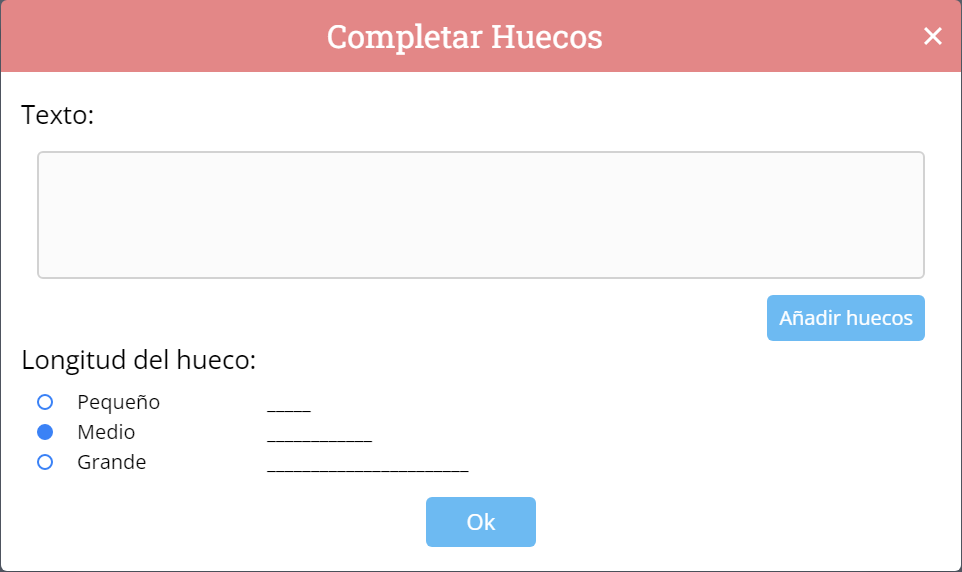
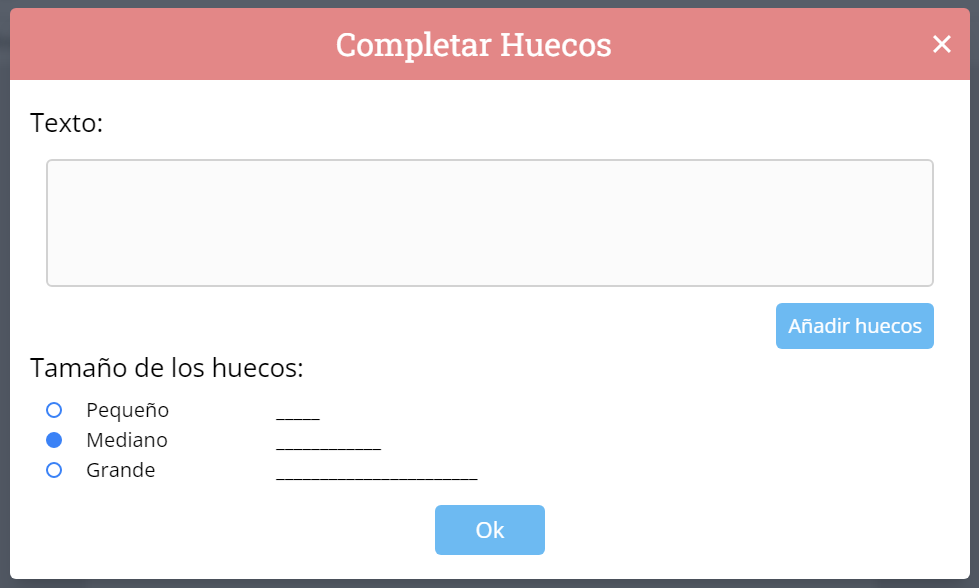
Memoria - Implementacion y Trabajo Individual

Changed region(s): [[0.0, 0.0, 1.0, 1.0], [0.2807, 0.8024, 0.4678, 0.8322], [0.2807, 0.7133, 0.3742, 0.7727]]

diff --git a/Memoria/Capitulos/AdaptaMaterialEscolar2.0.tex b/Memoria/Capitulos/AdaptaMaterialEscolar2.0.tex
@@ -382,9 +382,10 @@ Para implementar esta funcionalidad se ha empleado un campo de texto en el cual 
 \end{figure}
 
 \subsubsection{Completar huecos}
-Para implementar esta funcionalidad se ha empleado un area de texto en el cual se introduce el texto que se quiere modificar, remplazando palabras por huecos. Tanto el botón de añadir huecos como el botón de \textit{Ok} están desactivados y no se podrán pulsar hasta que se introduzca un texto. Al pulsar el botón de añadir huecos, se permite hacer click a las distintas palabras del texto para convertirlas en huecos, y viceversa, pero no se podrá editar el texto. Se podrá editar el texto volviendo a pulsar el botón de añadir huecos, que ahora se llamará editar texto. Si se edita el texto se perderán todos los huecos que se hayan añadido. Además, se podrá elegir el tamaño de los huecos. Al pulsar el botón de \textit{Ok}, se insertará en el documento de trabajo el ejercicio con un enunciado predeterminado y el texto con los huecos que se hayan definido. En la Figura \ref{fig:impcompletarhuecos} se muestra la funcionalidad de completar huecos.
+\label{sec:impcompletarhuecos}
+Para implementar esta funcionalidad se ha empleado un area de texto en el cual se introduce el texto que se quiere modificar, remplazando palabras por huecos. Tanto el botón de añadir huecos como el botón de \textit{Ok} están desactivados y no se podrán pulsar hasta que se introduzca un texto. Al pulsar el botón de añadir huecos, se permite hacer click a las distintas palabras del texto para convertirlas en huecos, y viceversa, pero no se podrá editar el texto. Se podrá editar el texto volviendo a pulsar el botón de añadir huecos, que ahora se llamará editar texto. Si se edita el texto se perderán todos los huecos que se hayan añadido. Además, se podrá elegir el tamaño de los huecos utilizando botones de radio. Al pulsar el botón de \textit{Ok}, se insertará en el documento de trabajo el ejercicio con un enunciado predeterminado y el texto con los huecos que se hayan definido. En la Figura \ref{fig:impcompletarhuecos} se muestra la funcionalidad de completar huecos.
 
-Internamente se han utilizado dos listas: una lista para almacenar las palabras del texto y otra lista de la misma longitud para marcar si hay un hueco en una posición concreta del texto. También se ha utilizado una variable para guardar el tipo del hueco: pequeño, medio o grande; y una variable para guardar el modo de edición (editar texto o añadir huecos). Cuando se modifica el texto, se crea una nueva lista donde cada elemento es una palabra del texto y una lista de booleanos con tantos elementos como palabras tenga el texto, marcando si una palabra en cierta posición es un hueco o no. Cuando se pulsa el botón de añadir huecos o editar texto se cambia el modo de edición. Al clickar una palabra en el modo de añadir huecos se alterna el estado del booleano, en la lista de huecos, en la posición de la palabra pulsada.
+Se han utilizado, internamente, dos listas: una para almacenar las palabras del texto y otra de igual longitud para indicar si hay un hueco en una posición específica del texto. Además, se han implementado dos variables para guardar información adicional: una para el tamaño del hueco (pequeño, mediano o grande) y otra para el modo de edición (edición de texto o añadir huecos). Cuando se realiza una modificación en el texto, se crea una nueva lista en la que cada elemento es una palabra del texto y una lista de booleanos con tantos elementos como palabras tenga el texto, para indicar si una palabra en una posición determinada es un hueco o no. Al hacer clic en el botón de añadir huecos o editar texto, se cambia el modo de edición. En el modo de añadir huecos, al hacer clic en una palabra, se cambia el estado del booleano correspondiente en la lista de huecos para la posición de la palabra seleccionada.
 
 \begin{figure}[ht!]
   \centering
@@ -411,6 +412,44 @@ Internamente se han utilizado dos listas: una lista para almacenar las palabras 
 
   \caption{Funcionalidad de completar huecos}
   \label{fig:impcompletarhuecos}
+\end{figure}
+
+\subsubsection{Sopa de letras}
+\label{sec:impsopaletras}
+Se ha utilizado una serie de elementos para implementar la funcionalidad de generación de sopas de letras. En primer lugar, se emplean dos campos para introducir el número de filas y columnas deseado. A continuación, se utilizan dos componentes, el \textit{ModalNewWordInput} y el \textit{ModalWordList}, que permiten añadir, modificar y eliminar palabras de la sopa de letras. Para seleccionar las orientaciones permitidas, se ha creado un menú de \textit{checkboxes}. Cada vez que se modifica alguno de estos campos, se llama a la función \textit{createWordSearch}, que utiliza la clase \textit{WordSearch} de la biblioteca \textit{word-search} para generar la sopa de letras. Esta función recibe los valores de los campos del modal y el devuelve un objeto que contiene la sopa de letras, errores y avisos. En caso de que haya algún error, no se generará una sopa de letras y, por lo tanto, esta y los avisos serán nulos. La sopa de letras generada se muestra en una vista previa, y si hay errores o avisos, se muestran en una alerta en la parte superior de la vista previa. Al pulsar el botón de \textit{Ok}, se insertará un ejercicio en el documento de trabajo, con un enunciado predeterminado, especificando el número de palabras a encontrar y las posibles orientaciones de estas, y debajo de este se inserta la sopa de letras, centrada en la página. En la Figura \ref{fig:impsopaletras} se muestra la funcionalidad de la sopa de letras.
+
+\begin{figure}[ht!]
+  \centering
+  \begin{subfigure}{\textwidth}
+    \centering
+    \includegraphics[width=0.55\textwidth]{Implementacion/SopaLetras01.png}
+    \caption{Funcionalidad de sopa de letras ejecutado con éxito}
+    \label{fig:impsopaletras01}
+  \end{subfigure}
+
+  \begin{subfigure}{\textwidth}
+    \centering
+    \includegraphics[width=0.55\textwidth]{Implementacion/SopaLetras02.png}
+    \caption{Funcionalidad de sopa de letras con avisos}
+    \label{fig:impsopaletras02}
+  \end{subfigure}
+
+  \begin{subfigure}{\textwidth}
+    \centering
+    \includegraphics[width=0.55\textwidth]{Implementacion/SopaLetras03.png}
+    \caption{Funcionalidad de sopa de letras con errores}
+    \label{fig:impsopaletras03}
+  \end{subfigure}
+
+  \begin{subfigure}{\textwidth}
+    \centering
+    \includegraphics[width=0.55\textwidth]{Implementacion/SopaLetras04.png}
+    \caption{Funcionalidad de sopa de letras en documento de trabajo}
+    \label{fig:impsopaletras04}
+  \end{subfigure}
+
+  \caption{Funcionalidad de completar huecos}
+  \label{fig:impsopaletras}
 \end{figure}
 
 % REVIEW: No estoy seguro si iría aqui lo del editor

diff --git a/Memoria/Capitulos/TrabajoIndividual.tex b/Memoria/Capitulos/TrabajoIndividual.tex
@@ -4,7 +4,7 @@
 En este capítulo se habla del trabajo que ha realizado cada miembro del equipo en el proyecto.
 
 \section{Álvaro Gómez Sittima}
-Con respecto a la memoria he realizado la Sección \ref{sec:herramientasexistentes} en la cual se comparan algunas aplicaciones similares a AdaptaMaterialEscolar. También, he redactado la Sección \ref{cap:pruebas} donde se explica el plan de pruebas que ha seguido este proyecto. Además, junto a mis compañeros, he realizado los objetivos, el diseño y la metodología empleada.
+Con respecto a la memoria he realizado la Sección \ref{sec:herramientasexistentes} en la cual se comparan algunas aplicaciones similares a AdaptaMaterialEscolar. También, he redactado la Sección \ref{cap:pruebas} donde se explica el plan de pruebas que se ha seguido en este proyecto. Además, junto a mis compañeros, he realizado los objetivos, el diseño y la metodología empleada.
 \begin{itemize}
     \item Código
           \begin{itemize}
@@ -18,6 +18,7 @@ Con respecto a la memoria he realizado la Sección \ref{sec:herramientasexistent
                         \item Función para generar resúmenes.
                         \item Testing de la función de Verdadero/Falso.
                         \item He añadido Prettier para formatear el código y ESLINT para analizar estáticamente el código y encontra problemas. Ambos se pueden aplicar facilmente en el pipeline de integración continua.
+                        \item He arreglado los bugs de las funcionalidades de Completar Huecos y Sopa de Letras.
                     \end{itemize}
               \item En grupo
                     \begin{itemize}
@@ -30,9 +31,10 @@ Con respecto a la memoria he realizado la Sección \ref{sec:herramientasexistent
               \item Individual
                     \begin{itemize}
                         \item La Sección \ref{sec:tailwind}, en la cual se explica el framework Tailwind CSS.
-                        % \item TODO: Aclarar que hacer con esta seccion La Sección \ref{sec:arasaac}, en la cual se explica la API de ARASAAC que utilizamos para obtener los pictogramas.
                         \item Redactar los diseños que hice para la iteración competitiva
                         \item Propuestas de diseño para el rediseño de la aplicación.
+                        \item La Sección \ref{sec:impcompletarhuecos}, en la cual se explica la implementación de la funcionalidad de completar huecos.
+                        \item La Sección \ref{sec:impsopaletras}, en la cual se explica la implementación de la funcionalidad de sopa de letras.
                     \end{itemize}
               \item En grupo
                     \begin{itemize}
@@ -40,6 +42,7 @@ Con respecto a la memoria he realizado la Sección \ref{sec:herramientasexistent
                         \item Junto a Johan, hemos realizado el diseño de las funcionalidades en Figma.
                         \item He ayudado a redactar el diseño final de las funcionalidades.
                         \item He ayudado a redactar los requisitos y la arquitectura con mis compañeros.
+                        \item He ayudado a redactar la implementación de la funcionalidad de buscar pictogramas.
                     \end{itemize}
           \end{itemize}
 \end{itemize}
